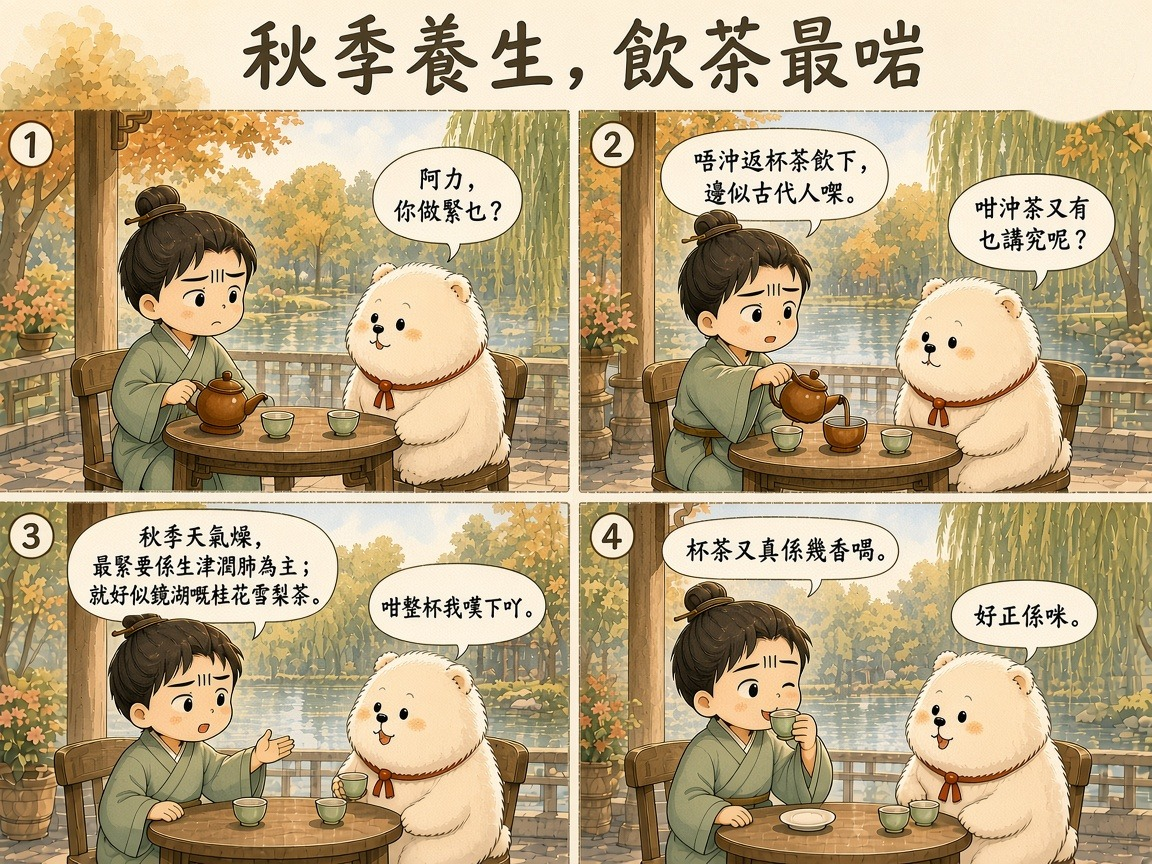
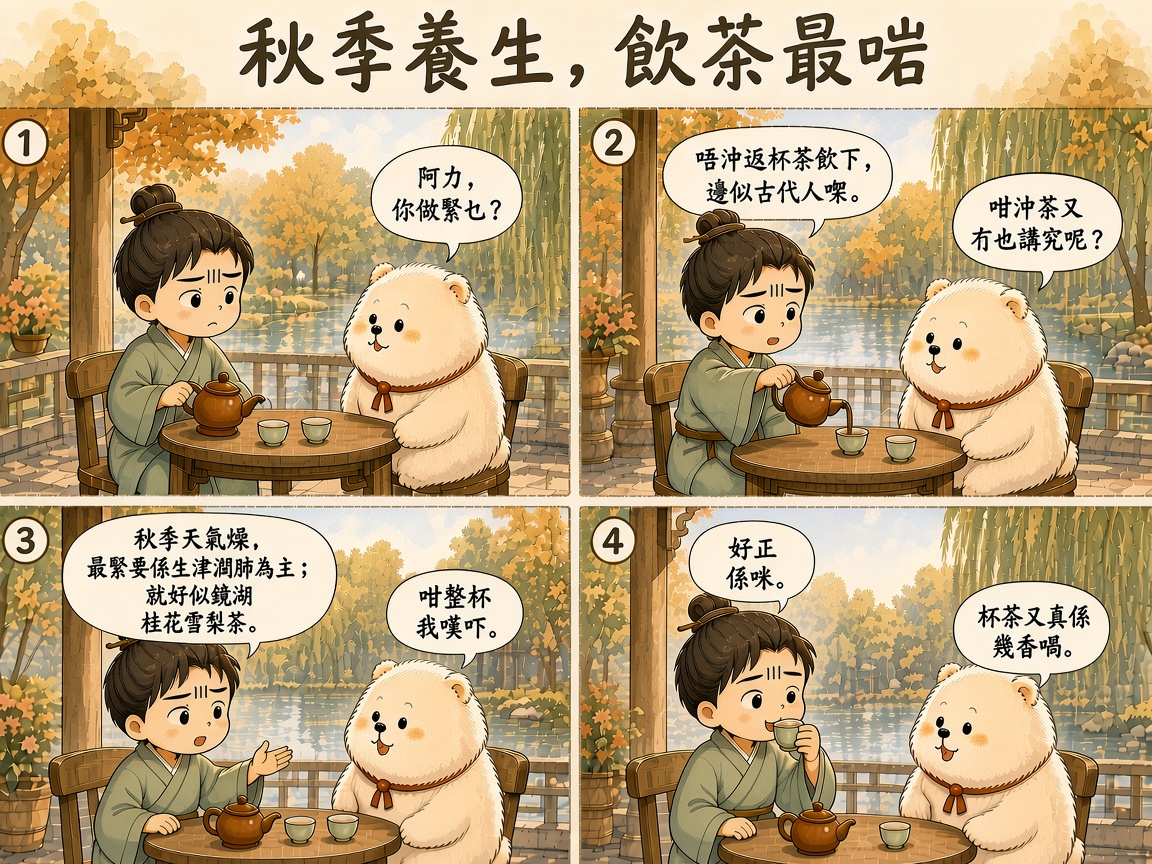
Update autumn tea comic dialogue (阿力 silent P1; 嘆; 喎)

diff --git a/home-comic.js b/home-comic.js
@@ -3,7 +3,7 @@ var P=location.pathname.replace(/index\.html$/,"");if(P!=="/yangsheng/"&&P!=="/y
 var TITLE="秋季養生，飲茶最啱";
 var KICK="四格漫畫 · 阿力同豆豆";
 var ALT="四格漫畫：阿力同豆豆穿古裝喺湖邊亭沖功夫茶。豆豆問阿力做緊乜；阿力話唔沖返杯茶飲下邊似古代人，豆豆問沖茶有乜講究；阿力話秋季天氣燥，最緊要生津潤肺，就好似鏡湖嘅桂花雪梨茶，豆豆叫整杯嘆下；豆豆飲完話杯茶幾香，阿力話好正係咪。";
-var SRC="/yangsheng/art/comics/autumn-tea.jpg?v=2";
+var SRC="/yangsheng/art/comics/autumn-tea.jpg?v=3";
 var css="#home-comic{margin-top:2.5rem}#home-comic .hc-box{border:1px solid var(--color-line,#d8ccb6);border-radius:var(--radius-card,1.25rem);background:var(--color-paper,#f3ecdf);padding:1.5rem}#home-comic .hc-kick{font-size:.875rem;letter-spacing:.12em;color:#3F6B5C}#home-comic h2{margin-top:.4rem;margin-bottom:1rem;font-family:'Noto Serif TC',serif;font-size:1.875rem;line-height:1.25;color:var(--color-ink,#1c241f)}#home-comic figure{overflow:hidden;border:1px solid var(--color-line,#d8ccb6);border-radius:var(--radius-card,1.25rem);background:var(--color-paper,#f3ecdf);margin:0}#home-comic img{display:block;width:100%;height:auto}#home-comic .hc-foot{margin-top:1rem;display:flex;flex-wrap:wrap;gap:.5rem 1.25rem;font-size:.875rem}#home-comic .hc-foot a{color:#3F6B5C;text-decoration:none;border-bottom:1px solid rgba(63,107,92,.35)}@media print{#home-comic{display:none}}";
 var st=document.createElement("style");st.textContent=css;document.head.appendChild(st);
 function html(){
